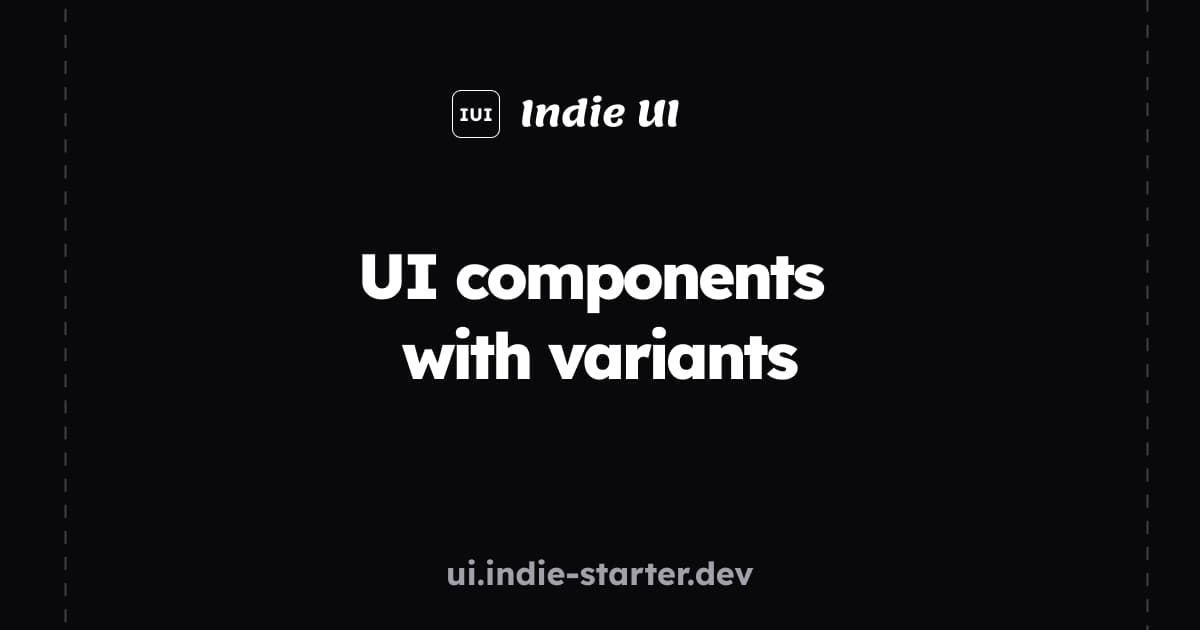
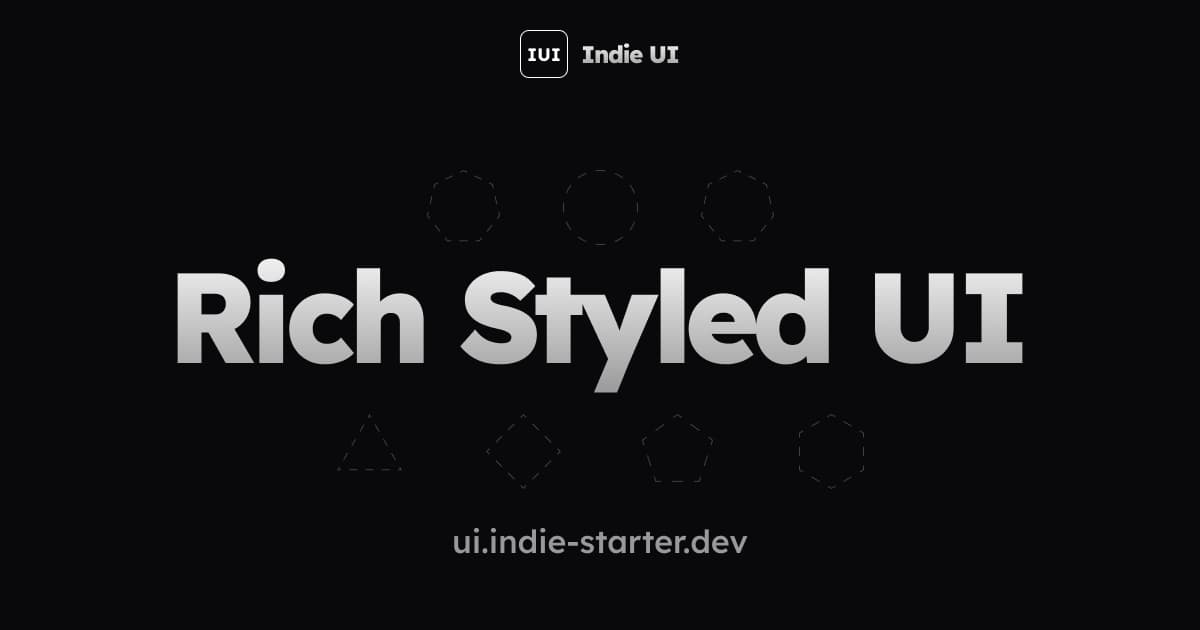
feat: update hero & og images

diff --git a/src/components/homepage/hero.tsx b/src/components/homepage/hero.tsx
@@ -12,11 +12,11 @@ export const Hero = () => {
       <Header />
       <div className="mx-auto max-w-2xl h-[95vh] center">
         <div>
-          <h1 className="text-3xl sm:text-4xl md:text-5xl mb-3 text-center font-black text-balance leading-loose">
-            UI Components with Variants
+          <h1 className="text-3xl sm:text-4xl md:text-5xl mb-3 text-center font-black text-balance leading-loose lg:text-6xl">
+            Rich Styled UI
           </h1>
           <p className="text-center text-balance w-10/12 text-lg mb-4 dark:text-zinc-400 mx-auto">
-            Make your website beautiful with minimal effort
+            Make your website stand out with minimal effort
           </p>
           <div className="flex-row-center gap-4 mx-auto max-w-fit py-4">
             <Button asChild rightIcon={<FaArrowRight />}>
@@ -25,7 +25,7 @@ export const Hero = () => {
               </Link>
             </Button>
             <Button asChild variant={"outline"} leftIcon={<FaGithub />}>
-              <Link href={configs.urls.github}>Star us on GitHub</Link>
+              <Link href={configs.urls.github}>Star on GitHub</Link>
             </Button>
           </div>
           <div className="mx-auto pt-10 w-fit">
